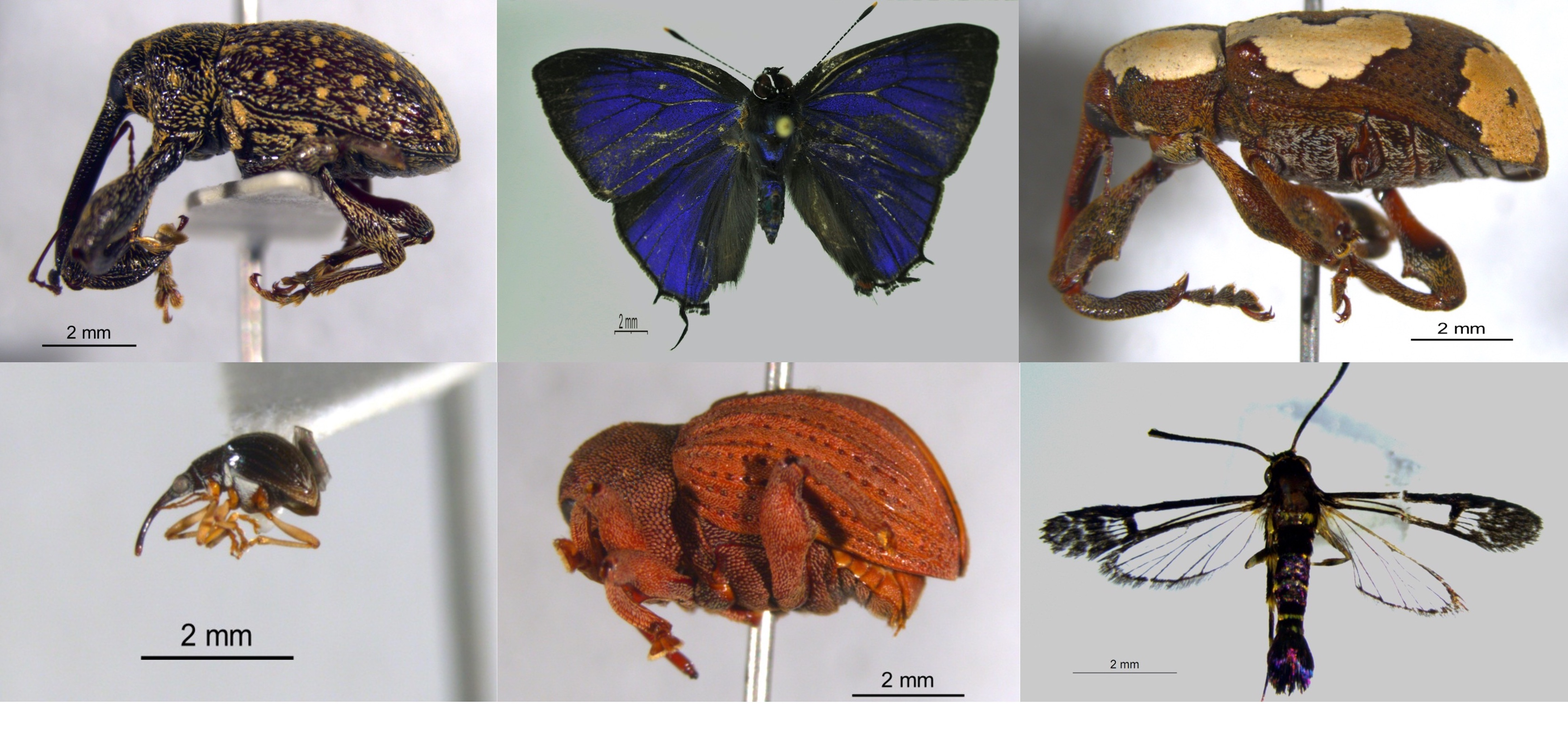
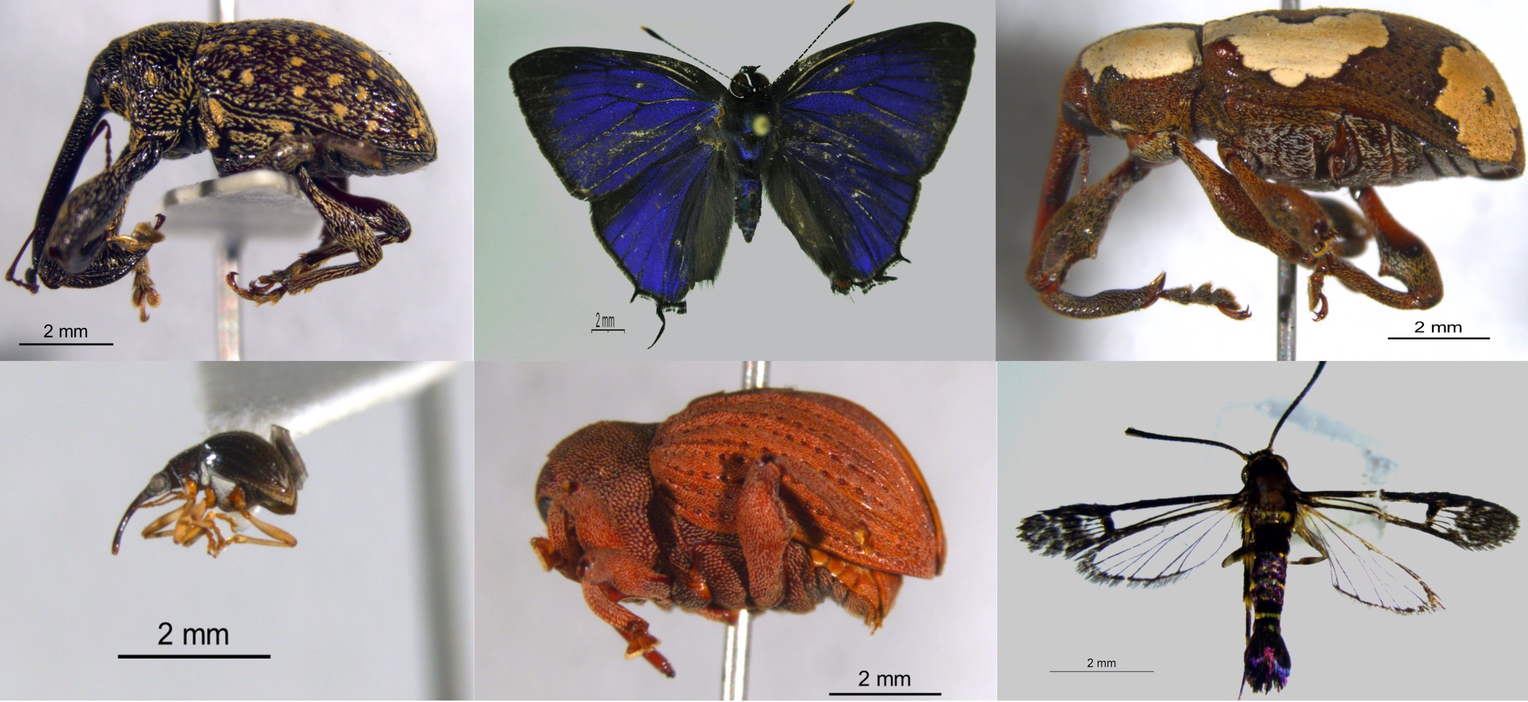
resize insect image

diff --git a/content/home/about.md b/content/home/about.md
@@ -5,7 +5,8 @@ headless = true  # This file represents a page section.
 active = true  # Activate this widget? true/false
 weight = 20  # Order that this section will appear in.
 
-title = " "
+title = " 
+ "
 
 # Choose the user profile to display
 # This should be the username of a profile in your `content/authors/` folder.
